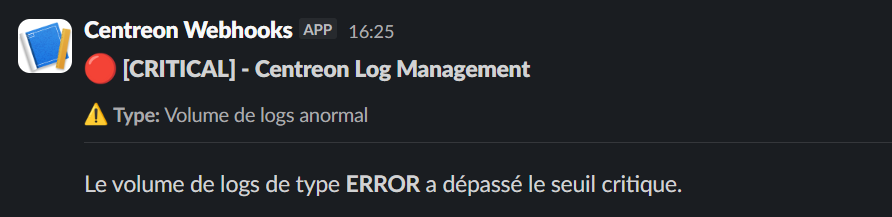
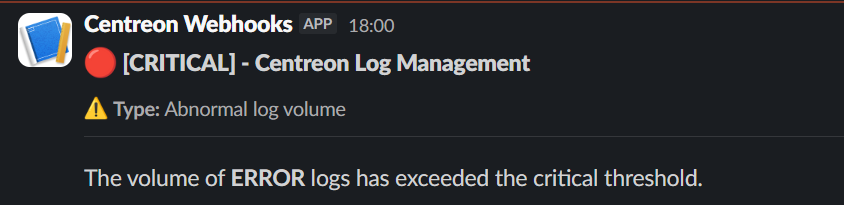
Update

diff --git a/logmanagement/notifications.md b/logmanagement/notifications.md
@@ -60,7 +60,7 @@ Notifications can be sent when an [alert rule](alerts.md) triggers an [alert eve
       "elements": [
         {
           "type": "mrkdwn",
-          "text": "⚠ *Type:* Volume de logs anormal"
+          "text": "⚠ *Type:* Abnormal log volume"
         }
       ]
     },
@@ -71,7 +71,7 @@ Notifications can be sent when an [alert rule](alerts.md) triggers an [alert eve
       "type": "section",
       "text": {
         "type": "mrkdwn",
-        "text": "Le volume de logs de type *ERROR* a dépassé le seuil critique."
+        "text": "The volume of *ERROR* logs has exceeded the critical threshold."
       }
     }
   ]
